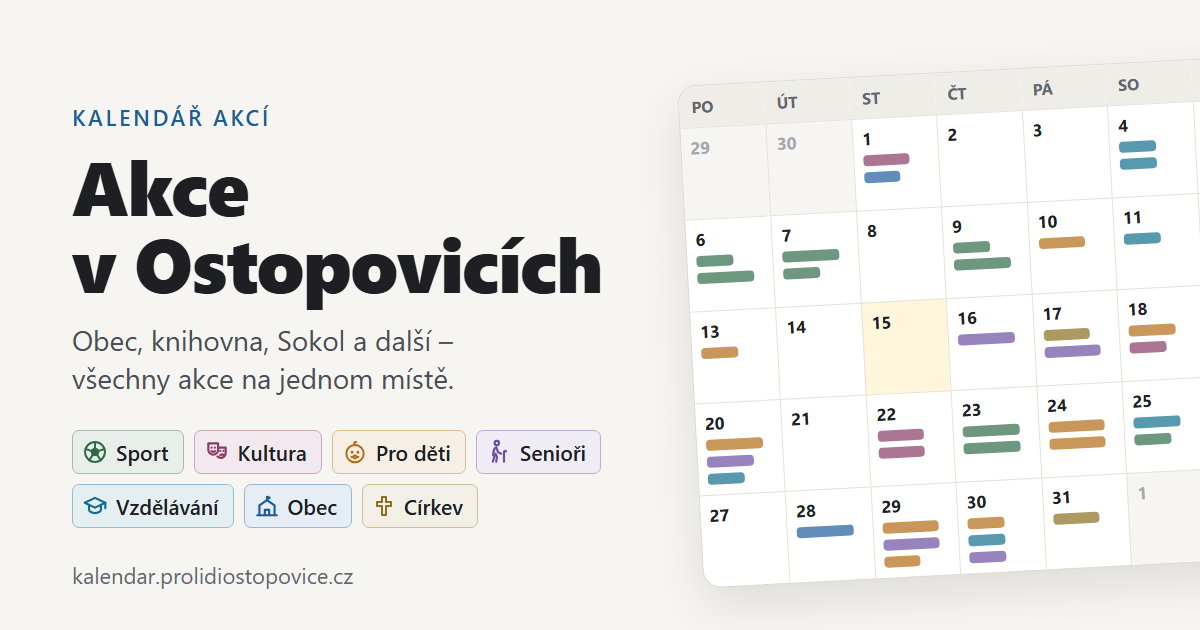
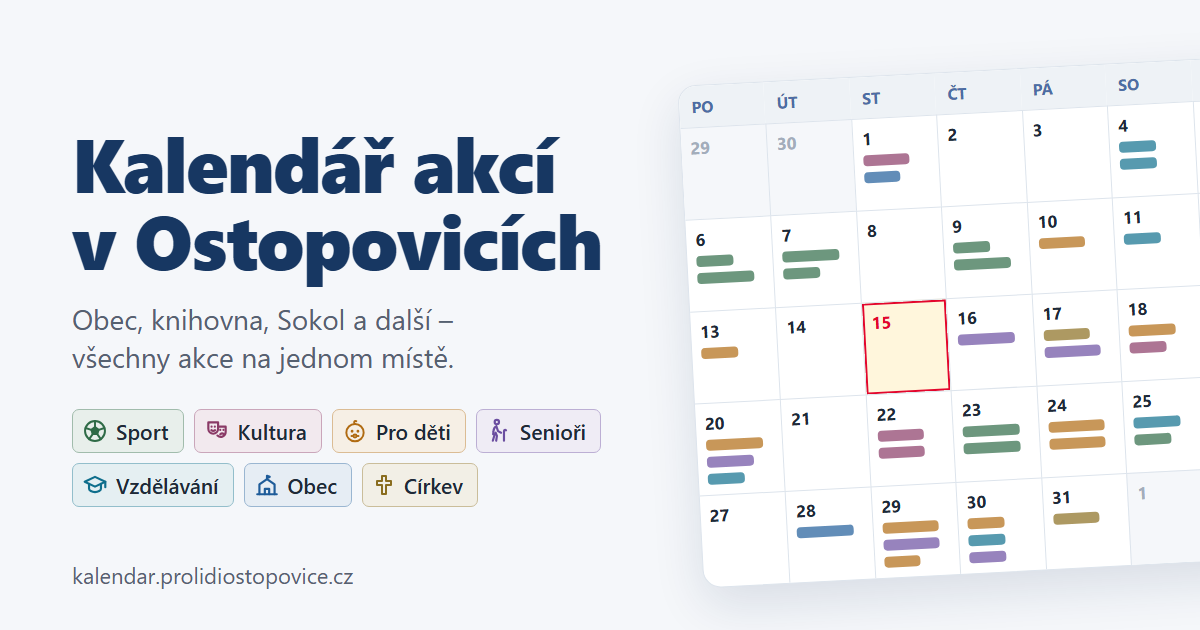
Rename to Kalendář akcí v Ostopovicích, rename Připravované akce
The theme toggle moves next to the subtitle when the longer title does
not fit on one line. Share image and .ics calendar names use the new
title; the share image follows the new color palette.

diff --git a/public/index.html b/public/index.html
@@ -3,18 +3,18 @@
 <head>
   <meta charset="utf-8">
   <meta name="viewport" content="width=device-width, initial-scale=1">
-  <title>Akce v Ostopovicích</title>
+  <title>Kalendář akcí v Ostopovicích</title>
   <meta name="description" content="Všechny akce v Ostopovicích na jednom místě – obec, knihovna, Sokol a další.">
   <!-- náhled při sdílení (Facebook, WhatsApp, Messenger…); obrázek musí mít absolutní adresu -->
   <meta property="og:type" content="website">
   <meta property="og:locale" content="cs_CZ">
   <meta property="og:url" content="https://kalendar.prolidiostopovice.cz/">
-  <meta property="og:title" content="Akce v Ostopovicích">
+  <meta property="og:title" content="Kalendář akcí v Ostopovicích">
   <meta property="og:description" content="Obec, knihovna, Sokol a další – všechny akce v Ostopovicích na jednom místě.">
   <meta property="og:image" content="https://kalendar.prolidiostopovice.cz/og-image.png">
   <meta property="og:image:width" content="1200">
   <meta property="og:image:height" content="630">
-  <meta property="og:image:alt" content="Akce v Ostopovicích – kalendář akcí s kategoriemi Sport, Kultura, Pro děti, Senioři, Vzdělávání, Obec a Církev">
+  <meta property="og:image:alt" content="Kalendář akcí v Ostopovicích s kategoriemi Sport, Kultura, Pro děti, Senioři, Vzdělávání, Obec a Církev">
   <meta name="twitter:card" content="summary_large_image">
   <link rel="icon" href="favicon.ico" sizes="any">
   <link rel="icon" href="icons/favicon-32.png" type="image/png" sizes="32x32">
@@ -29,7 +29,7 @@
   <header class="site-header">
     <div class="wrap">
       <div class="site-header__title">
-        <h1>Akce v Ostopovicích</h1>
+        <h1>Kalendář akcí v Ostopovicích</h1>
         <p class="site-header__lead">Obec, knihovna, Sokol a další – všechno na jednom místě.</p>
       </div>
       <div class="site-header__actions">

diff --git a/public/js/app.js b/public/js/app.js
@@ -977,6 +977,24 @@ function setupEventTooltip() {
   window.addEventListener('scroll', () => { tip.hidden = true; }, { passive: true });
 }
 
+/** Nadpis na víc řádků → přepínač režimu se přesune z úrovně nadpisu k podnadpisu. */
+function setupHeaderFit() {
+  const header = document.querySelector('.site-header');
+  const title = header.querySelector('h1');
+  const fit = () => {
+    header.classList.remove('site-header--stacked');
+    const lineHeight = parseFloat(getComputedStyle(title).lineHeight);
+    if (title.getBoundingClientRect().height > lineHeight * 1.5) header.classList.add('site-header--stacked');
+  };
+  fit();
+  let width = 0;
+  new ResizeObserver(([entry]) => {
+    if (Math.round(entry.contentRect.width) === width) return; // reaguje jen na šířku
+    width = Math.round(entry.contentRect.width);
+    requestAnimationFrame(fit);
+  }).observe(header);
+}
+
 function setupThemeToggle() {
   const button = document.getElementById('theme-toggle');
   const sync = () => button.setAttribute('aria-pressed', String(document.documentElement.getAttribute('data-theme') === 'dark'));
@@ -1096,6 +1114,7 @@ async function init() {
   setupEvents();
   setupSubscribe();
   setupThemeToggle();
+  setupHeaderFit();
   setupEventTooltip();
   setupMonthSwipe();
   // přepočet zhuštění filtrů při změně šířky (okno, posuvník, otočení telefonu)

diff --git a/public/css/style.css b/public/css/style.css
@@ -64,8 +64,15 @@ svg { width: 1.15em; height: 1.15em; fill: none; stroke: currentColor; stroke-wi
 /* ---------- Hlavička ---------- */
 
 .site-header { padding: 28px 0 8px; }
-/* přepínač režimu vpravo nahoře, zarovnaný s nadpisem */
-.site-header .wrap { display: flex; gap: 12px 16px; align-items: flex-start; justify-content: space-between; }
+/* nadpis a podnadpis vlevo, přepínač režimu vpravo v úrovni nadpisu; když se nadpis
+   nevejde na jeden řádek (mobil), jde přes celou šířku a přepínač k podnadpisu (setupHeaderFit) */
+.site-header .wrap { display: grid; grid-template-columns: minmax(0, 1fr) auto; column-gap: 16px; align-items: start; }
+.site-header__title { display: contents; }
+.site-header h1 { grid-column: 1; grid-row: 1; }
+.site-header__lead { grid-column: 1; grid-row: 2; }
+.site-header__actions { grid-column: 2; grid-row: 1; }
+.site-header--stacked h1 { grid-column: 1 / -1; }
+.site-header--stacked .site-header__actions { grid-row: 2; align-self: center; margin-top: 4px; }
 .site-header h1 { margin: 0; font-size: clamp(1.6rem, 4vw, 2.2rem); line-height: 1.15; letter-spacing: -0.02em; color: var(--heading); }
 .site-header__lead { margin: 4px 0 0; color: var(--muted); }
 

diff --git a/scripts/collect.js b/scripts/collect.js
@@ -43,7 +43,7 @@ const SITE_URL = 'https://kalendar.prolidiostopovice.cz/';
 const ICON_DIR = path.join(ROOT, 'public', 'icons', 'tabler');
 const ICON_URL = (name) => `https://cdn.jsdelivr.net/npm/@tabler/icons@3.49.0/icons/outline/${name}.svg`;
 
-const CALENDAR_NAME = 'Akce v Ostopovicích';
+const CALENDAR_NAME = 'Kalendář akcí v Ostopovicích';
 const PAST_DAYS = 400; // jak dlouho držet proběhlé akce
 const FUTURE_DAYS = 400; // jak daleko rozbalovat opakované akce
 const ICS_PAST_DAYS = 60; // kolik proběhlých dní dávat do .ics kalendářů

diff --git a/README.md b/README.md
@@ -21,7 +21,7 @@ zdroje (RSS, Wix, rozpis hřiště, Google iCal)
 | TJ Sokol Ostopovice | `nhjmop` | Rozpis hřiště z nhjmop.cz (domácí utkání národní házené, celá sezóna). |
 | Státní svátky | `ical` | Google iCal; jen „Státní svátek“, zobrazují se jako popisek dne (`display: dayLabel`). |
 | Nezařazené | `ical` | Vlastní Google kalendář (opakované události jen na tento a příští měsíc, `recurringMonths`) pro akce v obci, které nepatří pod žádný jiný zdroj (`allowEmpty`, `adminRefresh`). Navíc doplňkový zdroj (`extraFeeds`) **Farnost Troubsko** (`parish-schedule`): z týdenního pořadu bohoslužeb jen ty v kapli Ostopovice, kategorie Církev. Selhání doplňku nesmaže jeho poslední akce. |
-| Připravované události | `ical` | Vlastní Google kalendář se zástupnými akcemi; skutečný zdroj se stejnou akcí má přednost. |
+| Připravované akce | `ical` | Vlastní Google kalendář se zástupnými akcemi; skutečný zdroj se stejnou akcí má přednost. |
 
 ## Konfigurace
 
